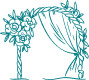
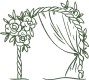
Revert "Change theme/color"
This reverts commit 153cdb3b133ebaea2ca3877bc357a1595ddc0d77.

diff --git a/components/Header.tsx b/components/Header.tsx
@@ -31,24 +31,24 @@ const Header = () => {
           className="flex font-heading name-wrapper ml5 flex-col-bm items-baseline justify-center-mb text-center-mb"
         >
           <div className="name font-inherit color-3 letters-left">
-            <p className='text-shadow'>Anh &nbsp;Tuan</p>
+            <p>Anh &nbsp;Tuan</p>
           </div>
           <div>
             <img
               src="/images/ampersand.png"
               alt=""
-              className="ampersand color-3 text-shadow"
+              className="ampersand color-3"
             />
           </div>
           <div className="name font-inherit color-3 letters-right">
-            <p className='text-shadow'>Vu Quynh</p>
+            <p>Vu Quynh</p>
           </div>
         </m.div>
         <m.div
           variants={fadeIn('up', 'tween', 0, 1)}
           className="event-time font-para color-3 text-center inner-col mx-auto"
         >
-          <p className='text-shadow'>12 . 08 . 2023</p>
+          <p>12 . 08 . 2023</p>
         </m.div>
       </div>
     </m.section>

diff --git a/styles/globals.css b/styles/globals.css
@@ -9,9 +9,9 @@
   --font-1: 'Absolute Beauty Bold';
   --font-2: 'Lexend Deca', sans-serif;
   --font-3: 'Oooh Baby', cursive;
-  --color-1: #007a81;
+  --color-1: #465a3d;
   --color-2: #f0e2d3;
-  --color-3: #007a81;
+  --color-3: #FF8B0F;
 }
 
 * {
@@ -29,10 +29,6 @@ body {
   padding: 0;
   margin: 0;
   box-sizing: border-box;
-}
-
-.text-shadow {
-  text-shadow: 1px 1px 3px white;
 }
 
 .font-para {
@@ -469,7 +465,7 @@ body {
   padding-bottom: 180px;
 }
 .t16-bio .lower-part {
-  background-color: #007a81;
+  background-color: #445a3d;
   background-image: url('/images/theme/paper-texture.jpg'),
     url('/images/theme/forest-stroke-bg.png');
   background-blend-mode: multiply, normal;
@@ -1160,7 +1156,7 @@ input[type='radio']:checked:before {
     padding: 0 20px;
   }
   .t16-bio .lower-part {
-    background-color: #007a81;
+    background-color: #445a3d;
     background-image: unset;
     background-position: center;
   }

diff --git a/components/Story.tsx b/components/Story.tsx
@@ -9,7 +9,7 @@ import Image from 'next/image'
 import story_1 from '../public/images/story-1.jpg'
 import story_2 from '../public/images/story-2.jpg'
 import story_3 from '../public/images/story-3.jpg'
-import forest_bg from '../public/images/theme/forest-bg-2.jpg'
+import forest_bg from '../public/images/theme/forest-bg.jpg'
 
 const Story = () => {
   return (

diff --git a/components/Loading/LoadingDefault.css b/components/Loading/LoadingDefault.css
@@ -16,7 +16,7 @@
   width: 16px;
   height: 16px;
   border-radius: 50%;
-  background: #007a81;
+  background: #445a3d;
   animation: lds-grid 1.2s linear infinite;
 }
 .lds-grid div:nth-child(1) {
